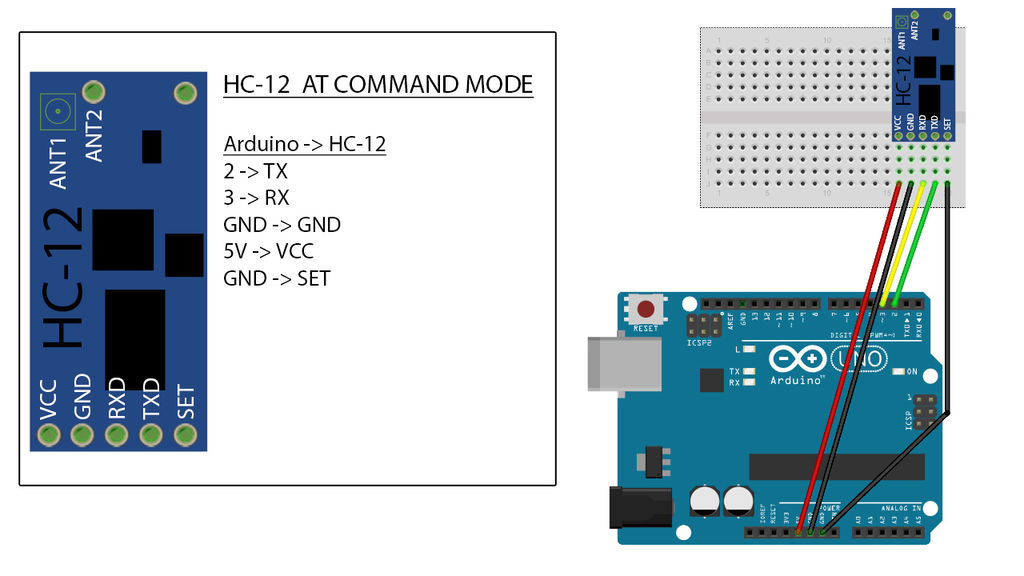
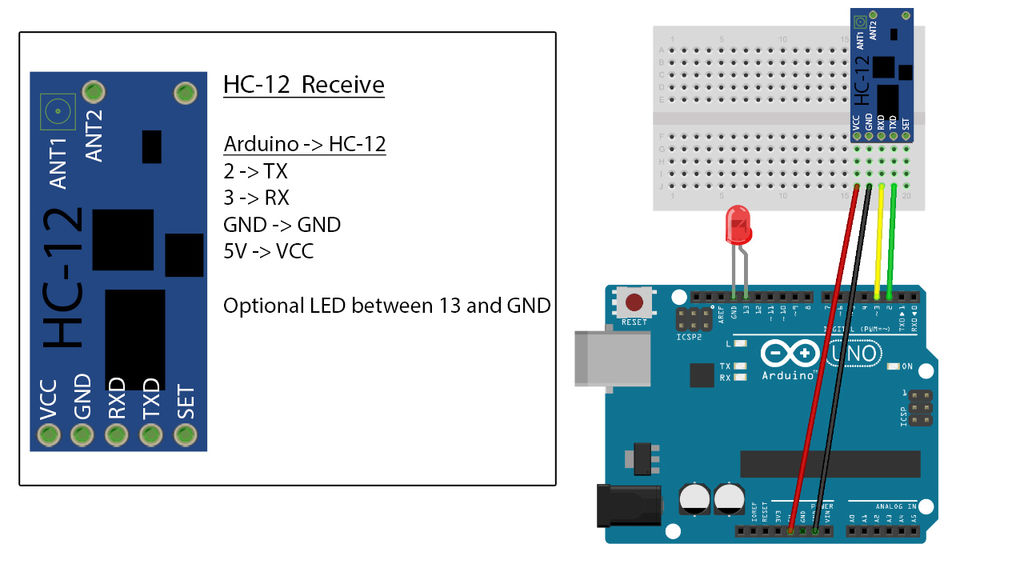
Changed schematics (was for AT command mode) Some minor fixes to the example projects Update README.md

Changed region(s): [[0.5625, 0.0, 0.9688, 0.9688], [0.2188, 0.4688, 0.5312, 0.5625], [0.2812, 0.125, 0.5312, 0.1875]]

diff --git a/README.md b/README.md
@@ -1,5 +1,11 @@
 # HC-12
 HC-12 library for Arduino
 
-The HC-12 modules should be connected in the following way. Image is made by Tom Heylen.
+The HC-12 modules should be connected in the following way. Image is from Tom Heylen.
 ![alt text](./doc/HC-12_schematic.jpg)
+
+The above schematic shows the transmitter mode setup. To enter the AT command mode,
+one should connect the SET pin to ground.
+
+An important future improvement to this code is to implement a proper communication
+protocol such as XMODEM or HDLC.
